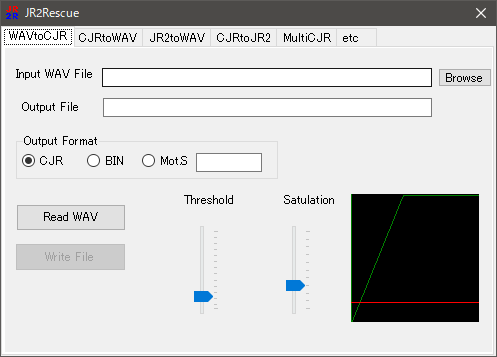
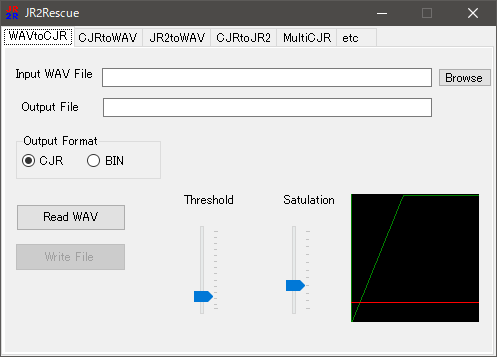
20211113

diff --git a/jr2rescue_en.html b/jr2rescue_en.html
@@ -61,7 +61,7 @@ programs on JR-200 to CJR format and other formats.</p>
 
 <h3>1. WAV to CJR</h3>
 
-<p>&nbsp; Convert wav file to CJR, BIN, motrola S format.</p>
+<p>&nbsp; Convert wav file to CJR, BIN format.</p>
 
 <p><img alt="" height="357" src="images/jr2r_1en.png" width="497"></p>
 	<p>1. Specify the input WAV file and press "Read WAV". If the dialog 
@@ -70,8 +70,6 @@ programs on JR-200 to CJR format and other formats.</p>
 	<p>2. If "Read WAV" is successful, the "Write File" button will be enabled. 
 	Select the output format and click the "Write File" button. You can also 
 	write different formats in quick succession.&nbsp;</p>
-	<p>* &quot;Mot.S&quot; is Motorola S format. If you choose this format, specify start 
-	address ( 0 - ffff).</p>
 
 <h3>2. CJR to WAV</h3>
 
